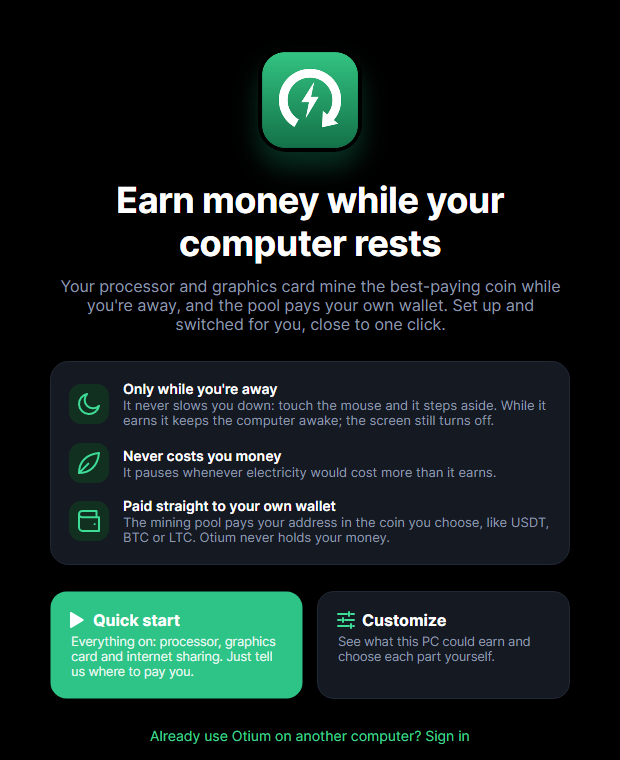
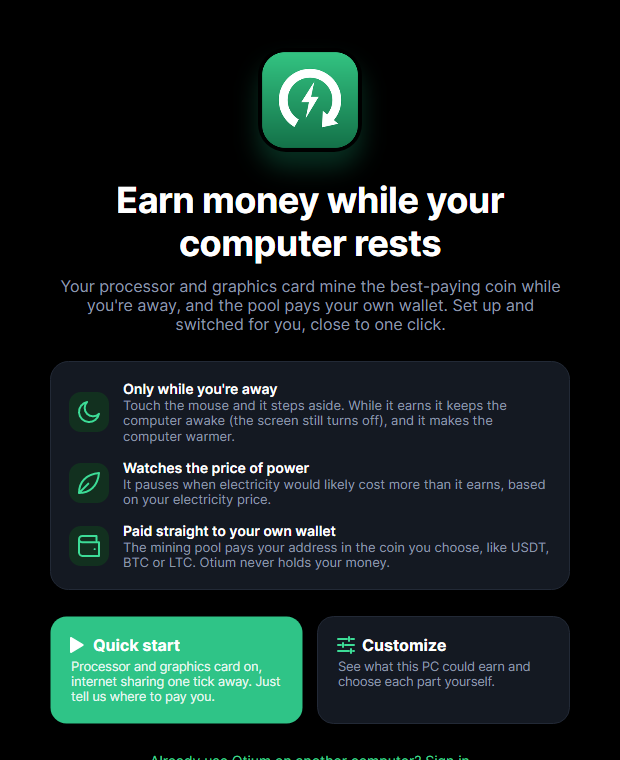
Ask about sharing earnings figures as a plain yes or no
"Help show what PCs really earn" needs consent, so both setups now end with "Yes, share" /
"No thanks" with nothing preselected, and Start waits for an answer. The app records when it was
answered; turning it off in Settings deletes what the computer sent (new server endpoint, retried
after the next sync if offline). Docs and the README's welcome picture updated.

Changed region(s): [[0.0613, 0.5145, 0.9194, 1.0], [0.1226, 0.5145, 0.1532, 0.575]]

diff --git a/src/Otium.App/ViewModels/WelcomeViewModel.cs b/src/Otium.App/ViewModels/WelcomeViewModel.cs
@@ -16,9 +16,10 @@ public sealed record EstimateRow(Geometry? Icon, string Name, string What, strin
 
 /// <summary>
 /// First launch. The first screen offers two ways in: <b>Quick start</b> turns mining on (processor, graphics card,
-/// keeping the miner ready, sharing earnings figures) and asks only where to pay, then shows exactly what's on before
-/// Start, with internet sharing as its own tick box (it uses the user's internet address, so it's never agreed to in
-/// passing); <b>Customize</b> walks through what this PC could earn, where to be paid, and each choice.
+/// keeping the miner ready) and asks only where to pay, then shows exactly what's on before Start, with internet
+/// sharing as its own tick box (it uses the user's internet address, so it's never agreed to in passing);
+/// <b>Customize</b> walks through what this PC could earn, where to be paid, and each choice. Both end with a plain
+/// yes or no on sharing earnings figures, with nothing preselected, because that needs the user's consent.
 /// </summary>
 public partial class WelcomeViewModel : ViewModelBase
 {
@@ -157,7 +158,6 @@ public partial class WelcomeViewModel : ViewModelBase
             UseGpu = true;
         ShareInternet = false;
         KeepMinerReady = true;
-        ShareEarnings = true;
         GoTo(PayoutStep);
     }
 
@@ -200,7 +200,6 @@ public partial class WelcomeViewModel : ViewModelBase
             if (HasGpu)
                 list.Add($"Your {GpuName} mines the best-paying coin while you're away.");
             list.Add("The processor miner pauses instead of closing when you come back, so it earns again the moment you leave (it keeps about 2.5 GB of memory for up to 10 minutes).");
-            list.Add("This PC's hardware model and earnings (never your address) go into the real-earnings figures on otium.lol.");
             return list;
         }
     }
@@ -343,8 +342,23 @@ public partial class WelcomeViewModel : ViewModelBase
 
     [ObservableProperty] public partial string? InviteError { get; set; }
 
-    /// <summary>"Help show what PCs really earn": ticked, and the user can untick it here or later in Settings.</summary>
-    [ObservableProperty] public partial bool ShareEarnings { get; set; } = true;
+    /// <summary>"Help show what PCs really earn": null until the user answers yes or no; Start waits for an answer.</summary>
+    [ObservableProperty]
+    [NotifyPropertyChangedFor(nameof(ShareEarningsYes), nameof(ShareEarningsNo), nameof(ShareEarningsUnanswered))]
+    [NotifyCanExecuteChangedFor(nameof(StartCommand))]
+    public partial bool? ShareEarnings { get; set; }
+
+    public bool ShareEarningsYes => ShareEarnings == true;
+
+    public bool ShareEarningsNo => ShareEarnings == false;
+
+    public bool ShareEarningsUnanswered => ShareEarnings is null;
+
+    [RelayCommand]
+    private void AnswerShareEarningsYes() => ShareEarnings = true;
+
+    [RelayCommand]
+    private void AnswerShareEarningsNo() => ShareEarnings = false;
 
     /// <summary>Pause the processor miner instead of stopping it when the user comes back: only if they tick it.</summary>
     [ObservableProperty] public partial bool KeepMinerReady { get; set; }
@@ -373,13 +387,13 @@ public partial class WelcomeViewModel : ViewModelBase
         Step = 1;
     }
 
-    private bool CanStart() => CanBegin && !IsStarting && InviteError is null && Payout.IsValid && (UseCpu || (HasGpu && UseGpu));
+    private bool CanStart() => CanBegin && !IsStarting && ShareEarnings is not null && InviteError is null && Payout.IsValid && (UseCpu || (HasGpu && UseGpu));
 
     [RelayCommand(CanExecute = nameof(CanStart))]
     private async Task Start()
     {
         IsStarting = true;
         _started(); // show the home screen right away; it reports progress while the account connects
-        await _host.StartFirstTimeAsync(InviteCode, Payout.Target?.ToString(), ShareEarnings, KeepMinerReady, ShareInternet && CanShareInternet);
+        await _host.StartFirstTimeAsync(InviteCode, Payout.Target?.ToString(), ShareEarnings == true, KeepMinerReady, ShareInternet && CanShareInternet);
     }
 }

diff --git a/src/Otium.App/Services/AppHost.cs b/src/Otium.App/Services/AppHost.cs
@@ -275,10 +275,33 @@ public sealed class AppHost : IAsyncDisposable
     /// <summary>Turns the opt-in on or off. Turning it on counts from now: nothing earned before is sent.</summary>
     public void SetShareEarningsStats(bool on)
     {
-        if (on && !Settings.ShareEarningsStats)
+        var wasOn = Settings.ShareEarningsStats;
+        if (on && !wasOn)
             EarningsReports.Reset(Settings.EarningsReports, ReportedDevices(), DateTimeOffset.UtcNow);
         Settings.ShareEarningsStats = on;
+        Settings.ShareEarningsAnsweredAt = DateTimeOffset.UtcNow; // when the user said yes or no, for the record
         _settingsStore.Save(Settings);
+        if (wasOn && !on)
+            _ = DeleteSharedEarningsAsync();
+    }
+
+    /// <summary>Withdrawing consent deletes what this computer shared. Without a connection it's retried at the next sync.</summary>
+    private async Task DeleteSharedEarningsAsync()
+    {
+        Settings.DeleteSharedEarnings = true;
+        SaveSettings();
+        if (Settings.Account.WorkerId is null)
+            return;
+        try
+        {
+            await CreateClient().DeleteEarningsReportsAsync(DeviceId, Settings.DeviceSecret, CancellationToken.None);
+            Settings.DeleteSharedEarnings = false;
+            SaveSettings();
+        }
+        catch (Exception e) when (e is HttpRequestException or TaskCanceledException or AccountRequestException or InvalidOperationException)
+        {
+            // Retried after the next successful sync.
+        }
     }
 
     /// <summary>When the user agreed and a report is due, sends what was earned since the last one. Failures retry later.</summary>
@@ -971,6 +994,8 @@ public sealed class AppHost : IAsyncDisposable
             referral.RegisteredPayoutAddress = ownWallet;
             LastServerError = null;
             Settings.UnavailableReason = null;
+            if (Settings.DeleteSharedEarnings && !Settings.ShareEarningsStats)
+                await DeleteSharedEarningsAsync();
             await RefreshGpuPolicyAsync(client, ct);
         }
         catch (Exception e) when (e is HttpRequestException or TaskCanceledException or UriFormatException or InvalidOperationException or AccountRequestException)

diff --git a/src/Otium.Core/Accounts/AccountClient.cs b/src/Otium.Core/Accounts/AccountClient.cs
@@ -25,6 +25,9 @@ public interface IAccountClient
     /// <summary>Sends what this computer earned since the last report (only for users who agreed to share it).</summary>
     Task ReportEarningsAsync(string deviceId, string deviceSecret, EarningsReport report, CancellationToken ct);
 
+    /// <summary>Deletes what this computer shared for the real-earnings figures, when the user stops sharing.</summary>
+    Task DeleteEarningsReportsAsync(string deviceId, string deviceSecret, CancellationToken ct);
+
     /// <summary>Asks Otium to pay a new Mysterium node's one-time registration fee.</summary>
     Task<MystSponsorResult> SponsorMysteriumAsync(string deviceId, string deviceSecret, MystSponsorRequest request, CancellationToken ct);
 
@@ -121,6 +124,13 @@ public sealed class AccountClient(HttpClient http) : IAccountClient
     public async Task ReportEarningsAsync(string deviceId, string deviceSecret, EarningsReport report, CancellationToken ct)
     {
         using var response = await PostAsync(deviceId, deviceSecret, "earnings", report, ct);
+        if (!response.IsSuccessStatusCode)
+            throw new AccountRequestException(await ReadProblemDetailAsync(response, ct), (int)response.StatusCode);
+    }
+
+    public async Task DeleteEarningsReportsAsync(string deviceId, string deviceSecret, CancellationToken ct)
+    {
+        using var response = await PostAsync(deviceId, deviceSecret, "earnings/delete", new { }, ct);
         if (!response.IsSuccessStatusCode)
             throw new AccountRequestException(await ReadProblemDetailAsync(response, ct), (int)response.StatusCode);
     }

diff --git a/tests/Otium.Tests/NonCustodialServerTests.cs b/tests/Otium.Tests/NonCustodialServerTests.cs
@@ -280,6 +280,23 @@ public sealed class NonCustodialServerTests : IDisposable
     }
 
     [Fact]
+    public async Task Stopping_earnings_sharing_deletes_what_the_computer_shared()
+    {
+        var (device, secret, _) = await Register(Usdt);
+        var client = new AccountClient(_http);
+        var now = _time.GetUtcNow();
+        await client.ReportEarningsAsync(device, secret,
+            new EarningsReport(1, now - TimeSpan.FromHours(6), now, [new DeviceEarnings("gpu", "rtx4090", 3600 * 5, 0.4, 0.1)]), CancellationToken.None);
+        var store = _factory.Services.GetRequiredService<Otium.Server.Data.OtiumStore>();
+        var accountId = store.FindDevice(device)!.AccountId;
+        Assert.NotEmpty(store.EarningsReportsFor(accountId));
+
+        await client.DeleteEarningsReportsAsync(device, secret, CancellationToken.None);
+        Assert.Empty(store.EarningsReportsFor(accountId));
+        await Assert.ThrowsAsync<AccountRequestException>(() => client.DeleteEarningsReportsAsync(device, "wrong", CancellationToken.None));
+    }
+
+    [Fact]
     public void The_country_list_names_sanctioned_and_mining_ban_countries_only()
     {
         Assert.Contains("sanctions", Otium.Core.Availability.BlockedReason("ru"));

diff --git a/src/Otium.Core/Settings/AppSettings.cs b/src/Otium.Core/Settings/AppSettings.cs
@@ -171,9 +171,16 @@ public sealed class AppSettings
 
     /// <summary>
     /// Send what this computer earns (graphics card model, processor name, hours, amounts; never an address) for the
-    /// real-earnings table on otium.lol. Ticked on the welcome screen, where the user can untick it; Settings turns it off.
+    /// real-earnings table on otium.lol. Asked as a plain yes or no on the welcome screen (nothing preselected: it's
+    /// consent); Settings turns it on or off.
     /// </summary>
     public bool ShareEarningsStats { get; set; }
+
+    /// <summary>When the user last answered "Help show what PCs really earn", as a record of their choice.</summary>
+    public DateTimeOffset? ShareEarningsAnsweredAt { get; set; }
+
+    /// <summary>The user stopped sharing earnings and the server hasn't yet deleted what this computer shared.</summary>
+    public bool DeleteSharedEarnings { get; set; }
 
     /// <summary>
     /// When the user comes back, pause the processor miner instead of stopping it, keeping its memory (about 2.5 GB) for

diff --git a/src/Otium.Server/Program.cs b/src/Otium.Server/Program.cs
@@ -273,6 +273,14 @@ api.MapPost("/devices/{deviceId}/earnings", (string deviceId, EarningsReport bod
     return Results.NoContent();
 });
 
+// The user turned "Help show what PCs really earn" off: what this computer shared is deleted.
+api.MapPost("/devices/{deviceId}/earnings/delete", (string deviceId, HttpRequest request, AccountService accounts, OtiumStore store) =>
+{
+    var session = accounts.Authenticate(deviceId, Secret(request));
+    store.DeleteEarningsReports(session.Device.DeviceId);
+    return Results.NoContent();
+});
+
 // Mysterium internet sharing: Otium pays a new node's one-time registration fee (custodial or not; it's Otium's money).
 api.MapPost("/devices/{deviceId}/mysterium/sponsor", async (string deviceId, MystSponsorRequest body, HttpContext context, AccountService accounts,
     MystSponsorService sponsor, CancellationToken ct) =>

diff --git a/src/Otium.Server/Data/OtiumStore.cs b/src/Otium.Server/Data/OtiumStore.cs
@@ -694,6 +694,16 @@ public sealed class OtiumStore
 
     // ---------- real earnings (opt-in reports, pool payouts) ----------
 
+    /// <summary>Deletes everything a computer shared for the real-earnings figures (the user withdrew their consent).</summary>
+    public void DeleteEarningsReports(string deviceId)
+    {
+        using var connection = Open();
+        using var cmd = connection.CreateCommand();
+        cmd.CommandText = "DELETE FROM earnings_reports WHERE device_id = $d";
+        cmd.Parameters.AddWithValue("$d", deviceId);
+        cmd.ExecuteNonQuery();
+    }
+
     /// <summary>Stores a report's rows. Returns false when this report (device and sequence) was already stored.</summary>
     public bool AddEarningsReport(string deviceId, string accountId, EarningsReport report, DateTimeOffset now)
     {

diff --git a/docs/privacy.md b/docs/privacy.md
@@ -32,7 +32,7 @@ and computers. We treat it with the same care as your email.
 | **Computers:** a device id (a one-way hash of your computer's machine id; the machine id itself never leaves your computer), a hash of the computer's secret key, when it first and last connected | Recognising your computers and keeping others out of your account | Contract; legitimate interest in security (art. 6(1)(f)) |
 | **Invites:** who invited you and whom you invited, and whether their pool shows that they started mining (yes or no, never amounts) | Fee-free periods and the referral share of Otium's fee. If you join with an invite code, the person who invited you can see whether you have started mining | Contract |
 | **What the pools paid your address:** the coin, the total the pool reports as paid to your address and its last 30 days, read about twice a day from the pools' public APIs | Showing on otium.lol the total paid to Otium users (one sum over everyone, never per person) | Legitimate interest in showing what Otium is worth [to confirm]. Source: the pools' public APIs (art. 14) |
-| **Earnings statistics**, only if you tick "Help show what PCs really earn": every few hours, your graphics card model, processor name, how long each mined, what it earned and the electricity it used, linked to your computer's device id. Never your address | Publishing real per-card earnings on otium.lol, only as medians across at least [5] computers | Consent (art. 6(1)(a) and ekomloven § 3-15). You can withdraw it in Settings at any time; we then delete that computer's statistics [to build] |
+| **Earnings statistics**, only if you answer yes to "Help show what PCs really earn": every few hours, your graphics card model, processor name, how long each mined, what it earned and the electricity it used, linked to your computer's device id. Never your address | Publishing real per-card earnings on otium.lol, only as medians across at least [5] computers | Consent (art. 6(1)(a) and ekomloven § 3-15). You can withdraw it in Settings at any time; we then delete that computer's statistics. The app records when you answered |
 | **Problem reports**, only when you press "Send a problem report": the app version and operating system, your settings switches, what each miner is doing and its recent messages, your graphics card's test results, internet sharing's status, your pool balance and the name of your antivirus, with payout addresses, keys and the device secret removed, plus any note you write | Finding out why Otium isn't working for you, when you ask for help | Contract (support you asked for) |
 | **Server logs:** IP addresses and request details | Security and troubleshooting | Legitimate interest |
 
@@ -96,8 +96,8 @@ Otium.]
 - **Server logs:** 14 days.
 - **Backups** of the server database are kept for 14 days, encrypted, so deleted data disappears from them within that
   time.
-- **Records of your consent** to earnings statistics: for as long as you have an account and 3 years after, to show we
-  asked.
+- **Your answer** to "Help show what PCs really earn" and when you gave it are kept in the app's settings on your
+  computer.
 
 ## 5. Your rights
 

diff --git a/README.md b/README.md
@@ -78,8 +78,9 @@ start.
   allow it.
 - Otium's server keeps your payout address, your computers and invite codes. An email address is optional (it lets
   you keep your invites when you reinstall). Settings has **Download my data** and **Delete my account**.
-- "Help show what PCs really earn" (on by default, can be turned off at the start or in Settings) sends your graphics
-  card and processor model and what they earned, never your address. otium.lol shows only totals across several PCs.
+- "Help show what PCs really earn" is a yes-or-no question at the start (and a switch in Settings). If you say yes,
+  the app sends your graphics card and processor model and what they earned, never your address; otium.lol shows only
+  totals across several PCs. Saying no later deletes what was sent.
 - Uninstalling removes the miners, Otium's scheduled tasks and its downloaded files.
 
 ## Help
